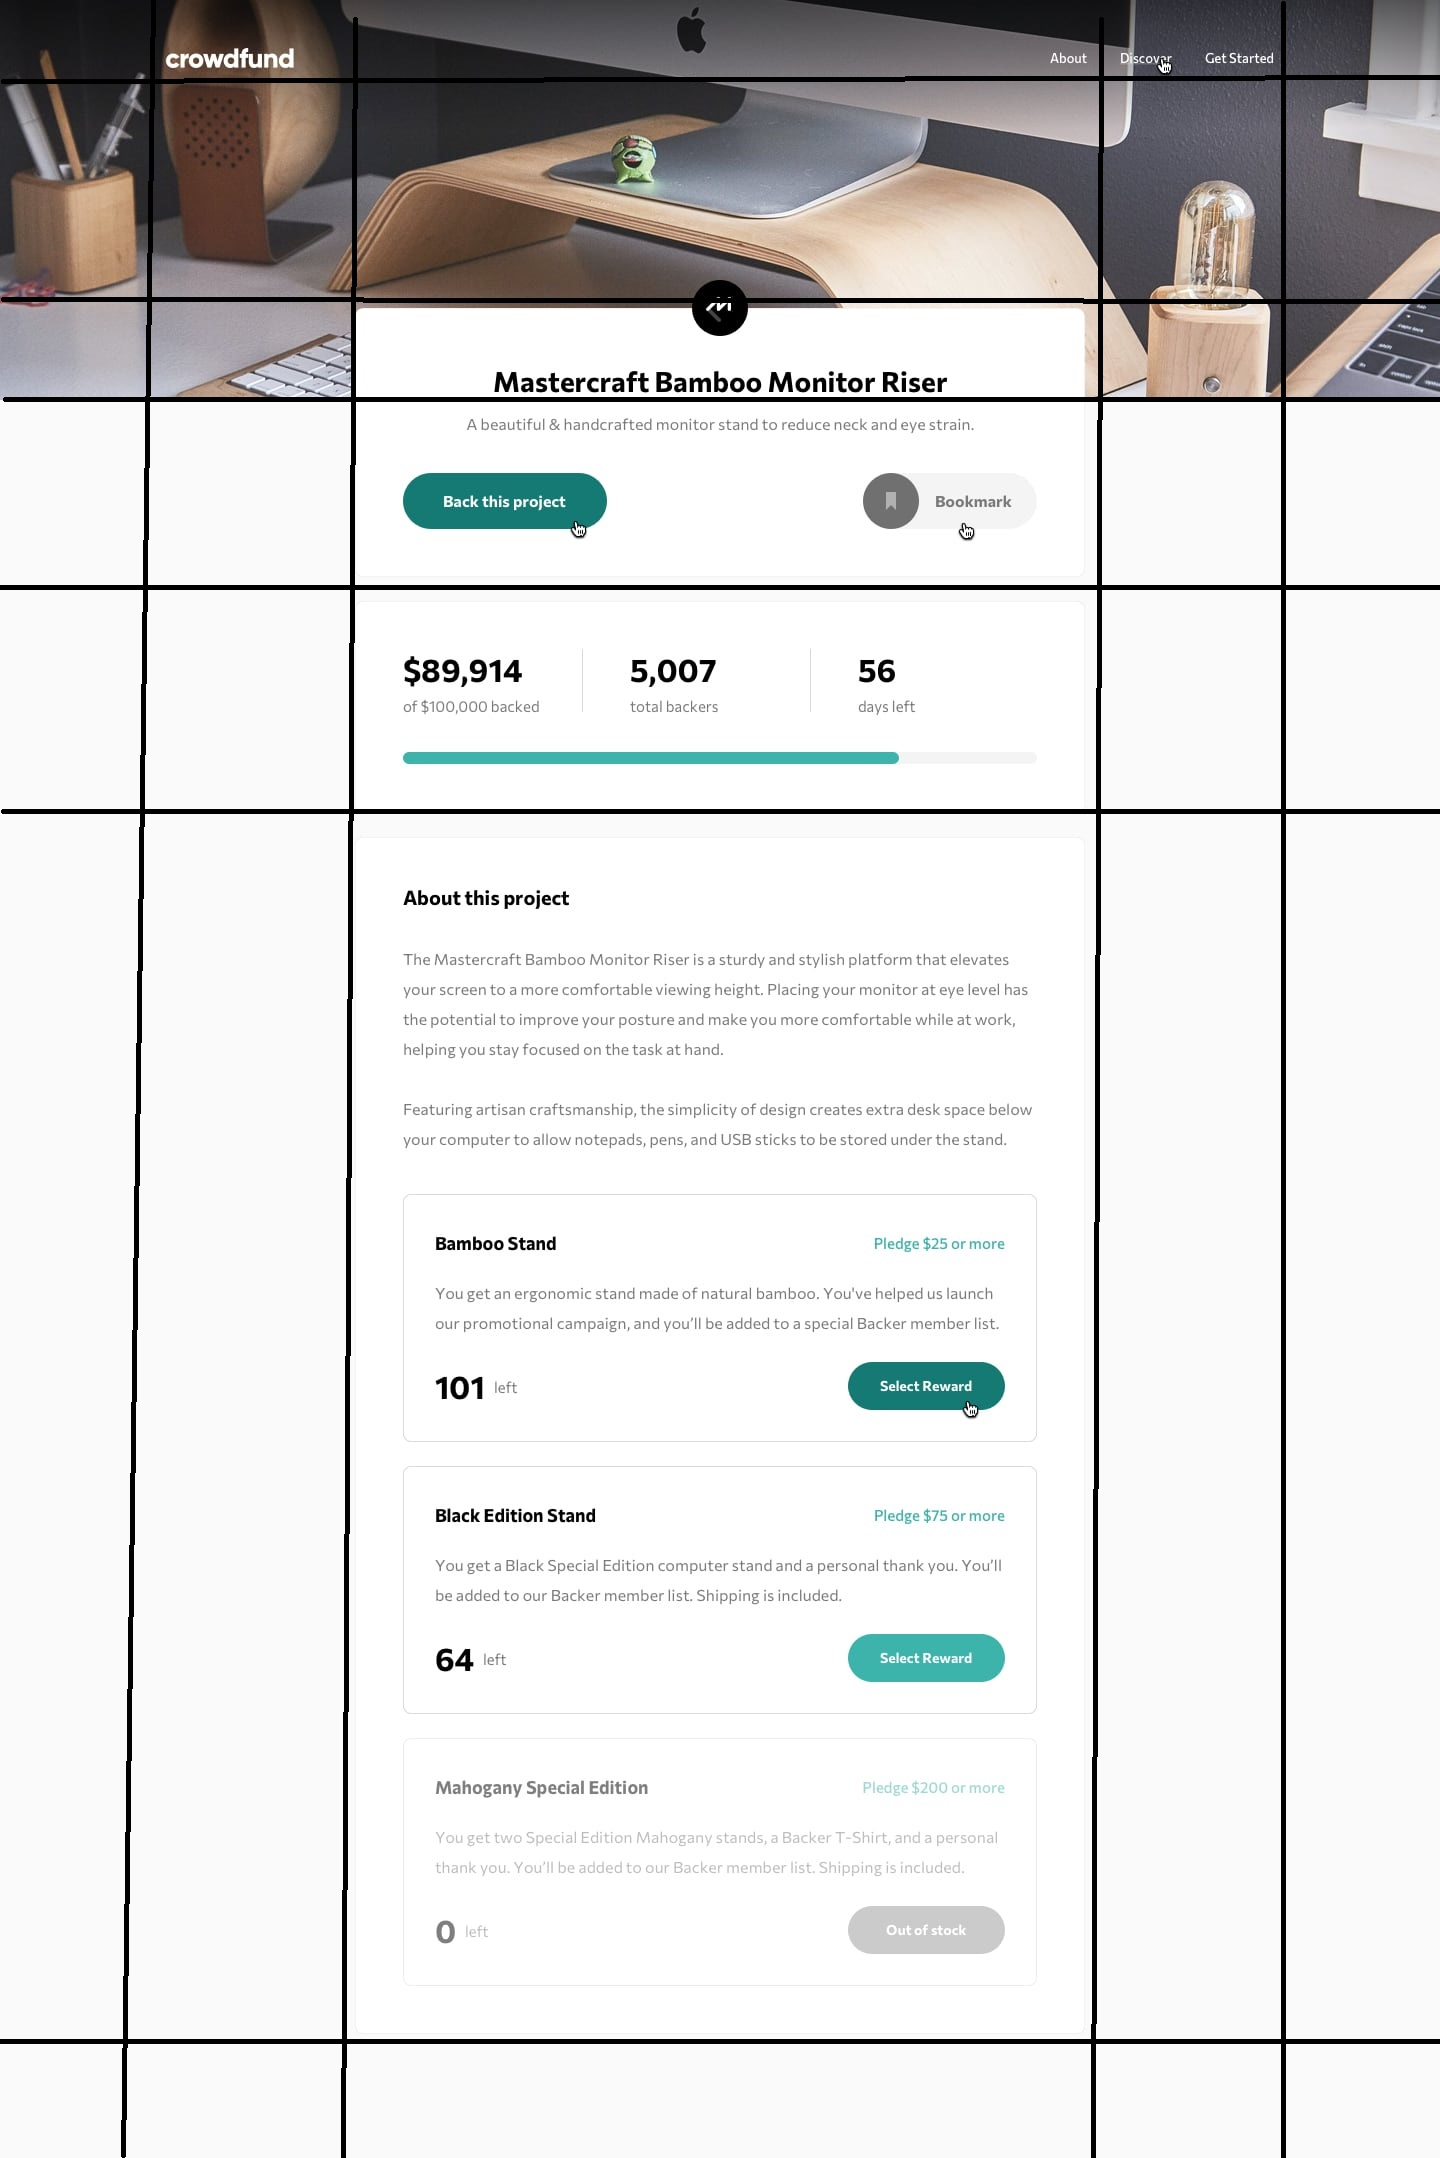
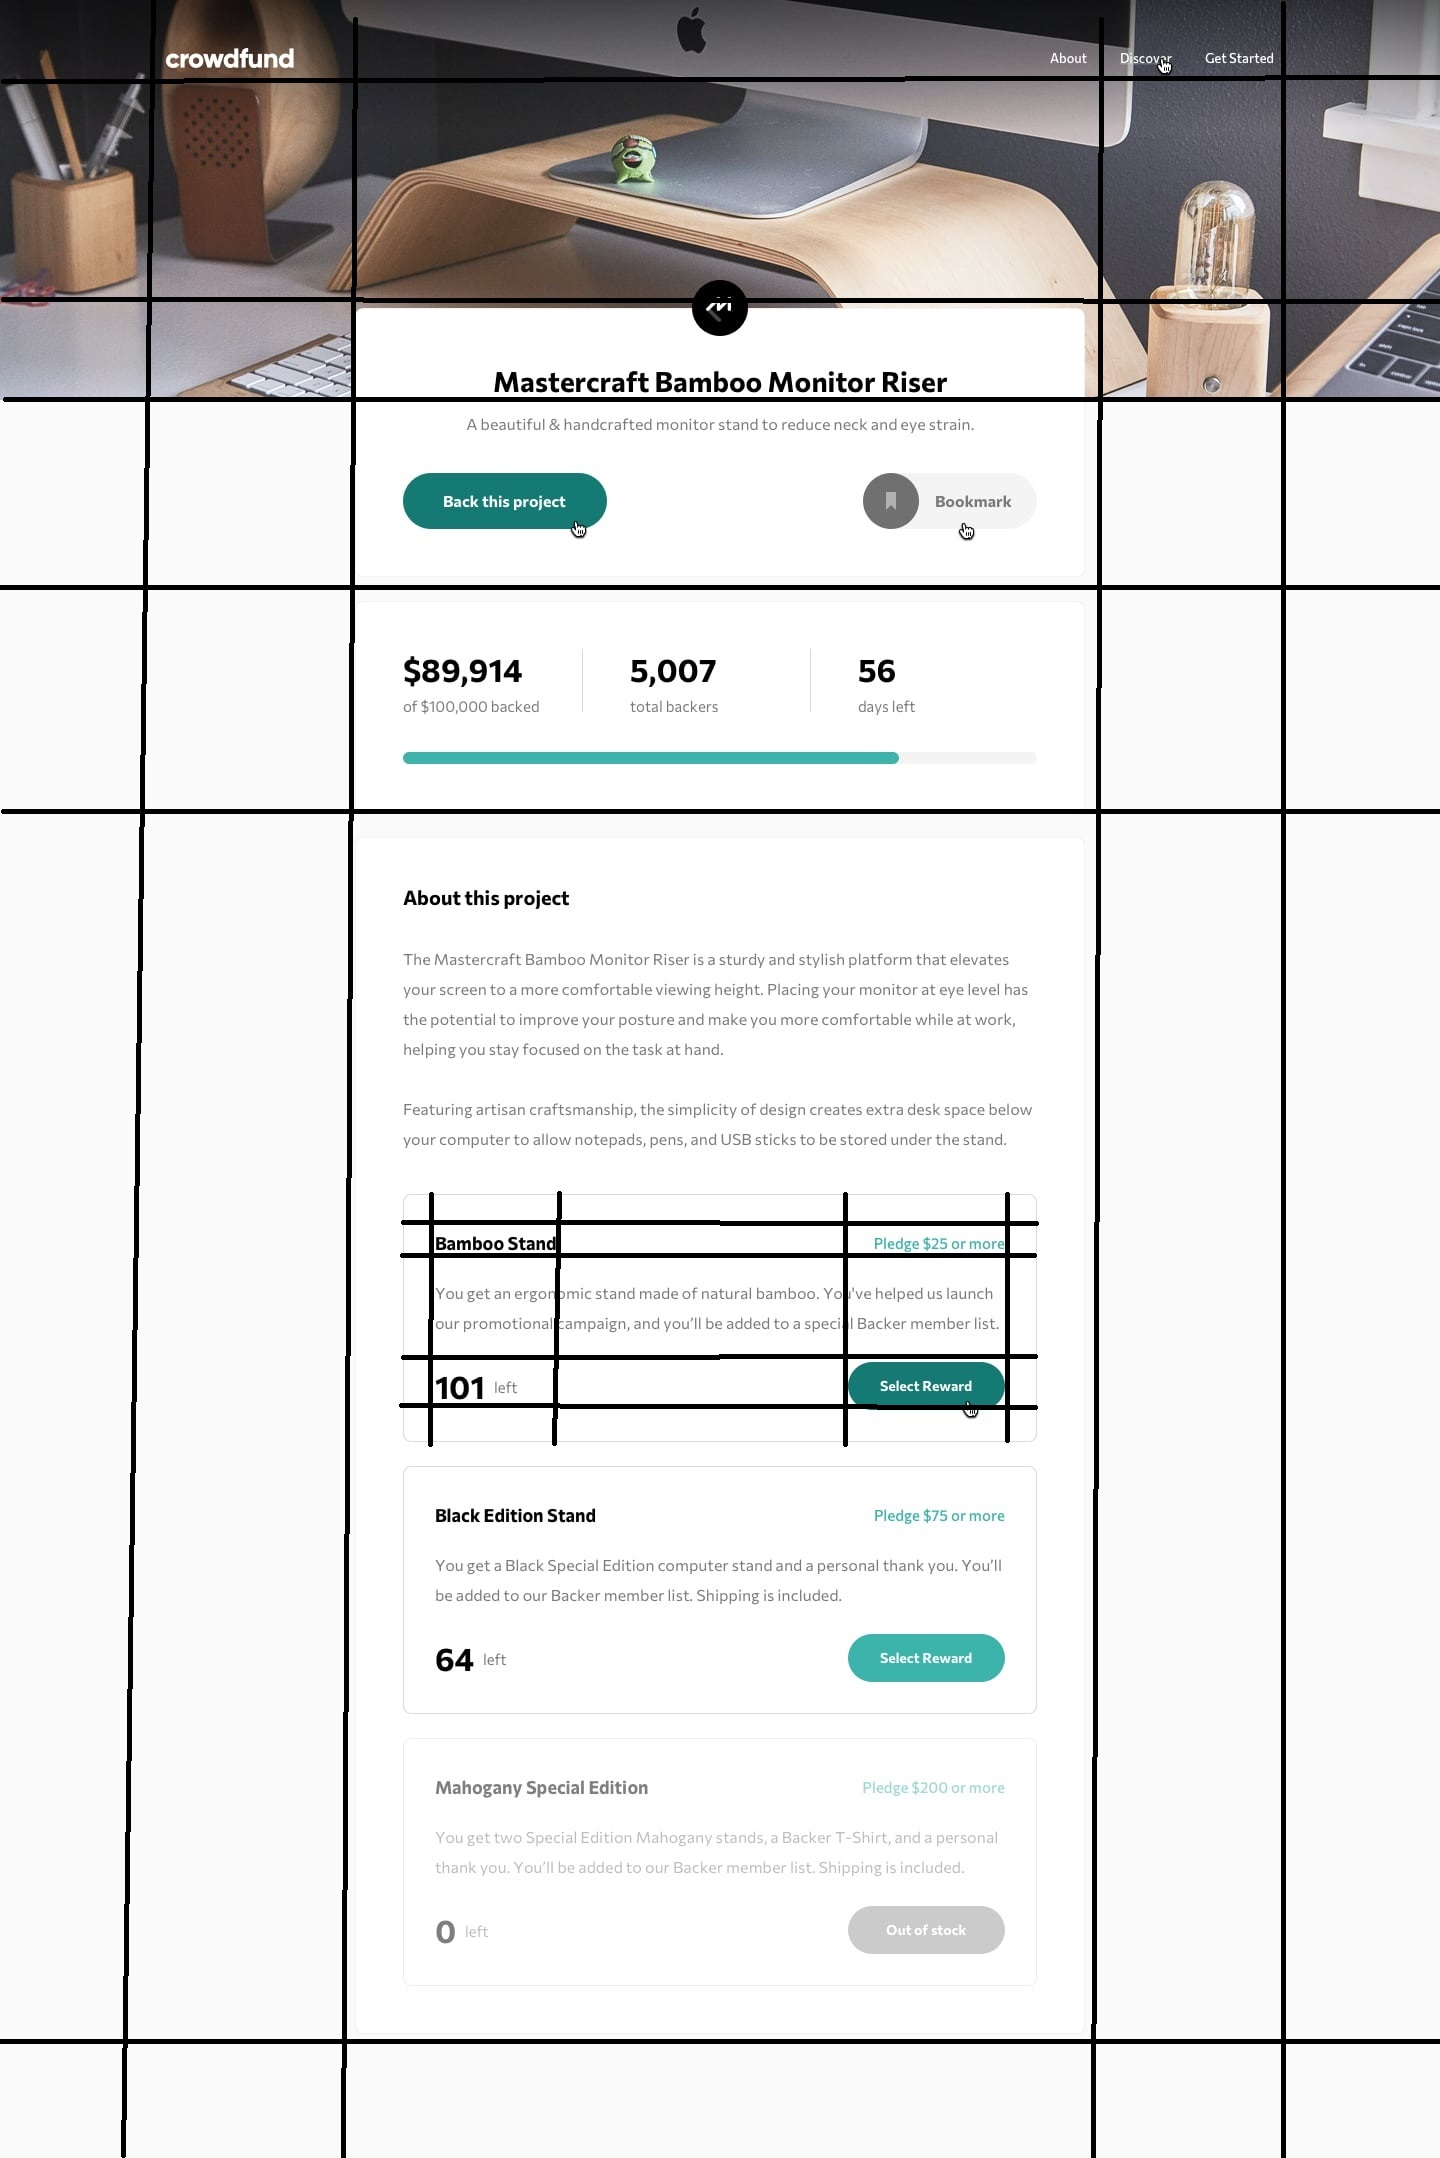
pledges changes

Changed region(s): [[0.2812, 0.5589, 0.7188, 0.652]]

diff --git a/src/components/ProjectDescription.tsx b/src/components/ProjectDescription.tsx
@@ -1,11 +1,89 @@
 import React from 'react';
+import styled from 'styled-components';
+import { Grid, GridItem } from './elements';
+import { GridItemProps } from './interfaces';
 
-const ProjectDescription:React.FC = ()=>{
+const Description = styled(GridItem)`
+  grid-row-start: 6;
+  grid-column: 3/ 4;
+  display: flex;
+  justify-content: center;
+`;
+
+const Container = styled.div`
+  width: 80%;
+  padding: 20px;
+  & > p {
+    font-size: 1.5rem;
+    margin-top: 2.5rem;
+  }
+`;
+
+const PledgeContainer = styled(Grid)`
+  width: 100%;
+  height: 30vh;
+  border-radius: 15px;
+  border: 1px solid ${(props) => props.theme.colors.neutral.light};
+  margin-top: 40px;
+  grid-template-columns: 30px 2fr 3fr 2fr 30px;
+  grid-template-rows: 20px 1fr 3fr 2fr 20px;
+  row-gap: 0;
+  & > h3 {
+    grid-row: 2/3;
+    grid-column: 2/3;
+    place-self: bottom;
+    justify-self: left;
+  }
+  & > span.pledge {
+    grid-row: 2/3;
+    grid-column: 4/5;
+    place-self: center;
+  }
+  & > span.pledge-info {
+    grid-row: 3/4;
+    grid-column: 2/5;
+    place-self: center;
+    font-size: 1.1rem;
+    line-height: 2.1;
+    text-align: justify;
+  }
+`;
+
+const ProjectDescription: React.FC = () => {
+  const gridItemProps: GridItemProps = {
+    showBorder: true,
+    hasBackgroundColor: true,
+  };
   return (
-    <div>
-      This is project description
-    </div>
+    <Description {...gridItemProps}>
+      <Container>
+        <h2>About this project</h2>
+        <p>
+          The Mastercraft Bamboo Monitor Riser is a sturdy and stylish platform
+          that elevates your screen to a more comfortable viewing height.
+          Placing your monitor at eye level has the potential to improve your
+          posture and make you more comfortable while at work, helping you stay
+          focused on the task at hand.
+        </p>
+        <p>
+          Featuring artisan craftsmanship, the simplicity of design creates
+          extra desk space below your computer to allow notepads, pens, and USB
+          sticks to be stored under the stand.
+        </p>
+        {/* Pledge component start */}
+        <PledgeContainer>
+          <h3>Bamboo stand</h3>
+          <span className='pledge'>Pledge $25 or more</span>
+          <span className='pledge-info'>
+            You get an ergonomic stand made of natural bamboo. You've helped us
+            launch our promotional campaign, and you’ll be added to a special
+            Backer member list.
+          </span>
+        </PledgeContainer>
+        {/* Pledge component end */}
+      </Container>
+    </Description>
   );
-}
+};
 
 export default ProjectDescription;
